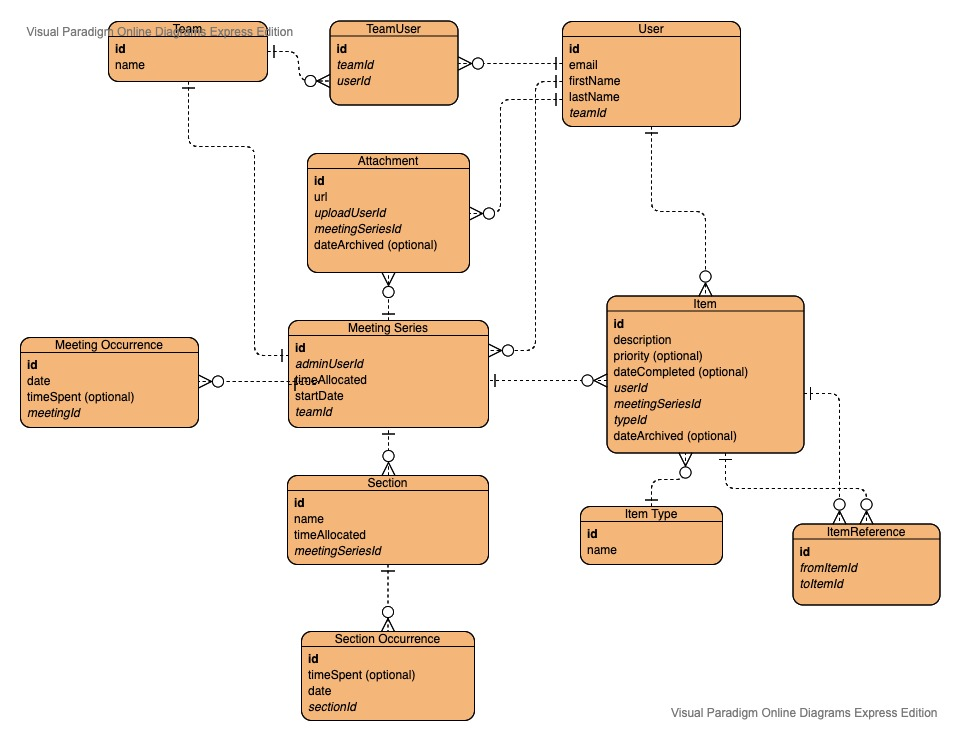
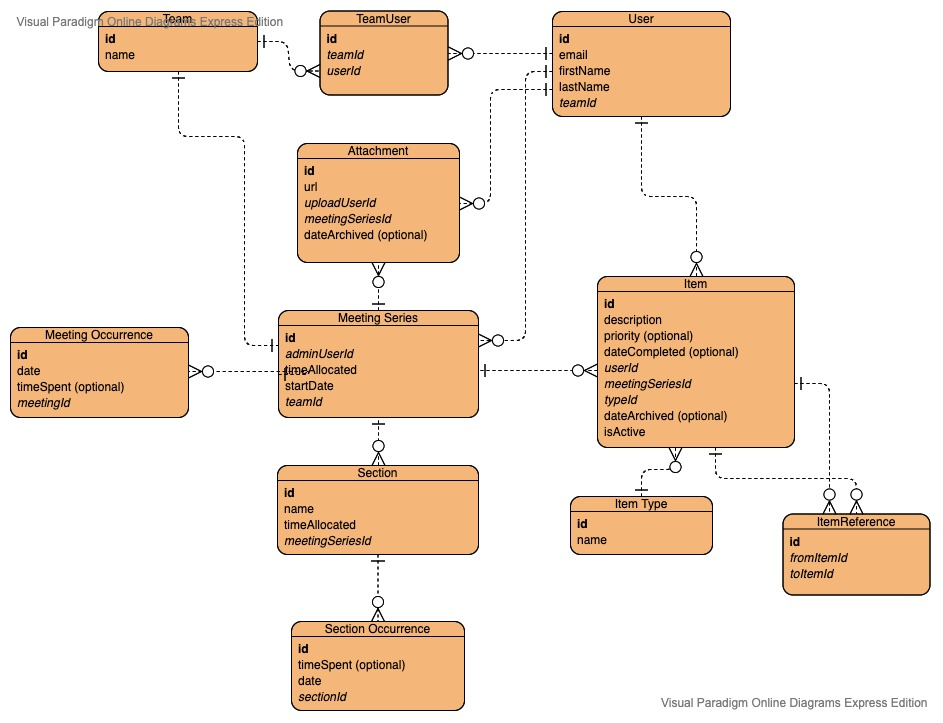
Added isActive to item in ERD, Route Structure notes in README

diff --git a/README.md b/README.md
@@ -3,3 +3,28 @@
 ## ERD:
 
 ![Entity Relationship Diagram](./erd.jpg)
+
+## Route Structure
+
+GET /series?teamId=1&adminUserId=0
+?GET /series/:id
+GET /series/:seriesId/occurrences
+GET /series/:seriesId/sections
+
+POST /series
+PUT /series/:id
+
+GET /teams/:teamId/users
+
+GET /occurrences/:id
+PUT /occurrences/:id
+
+POST /ids
+PUT /ids/:id
+
+GET /action-items?userId=0&complete=false
+POST /action-items
+PUT /action-items/:id
+
+POST /updates
+PUT /updates/:id
